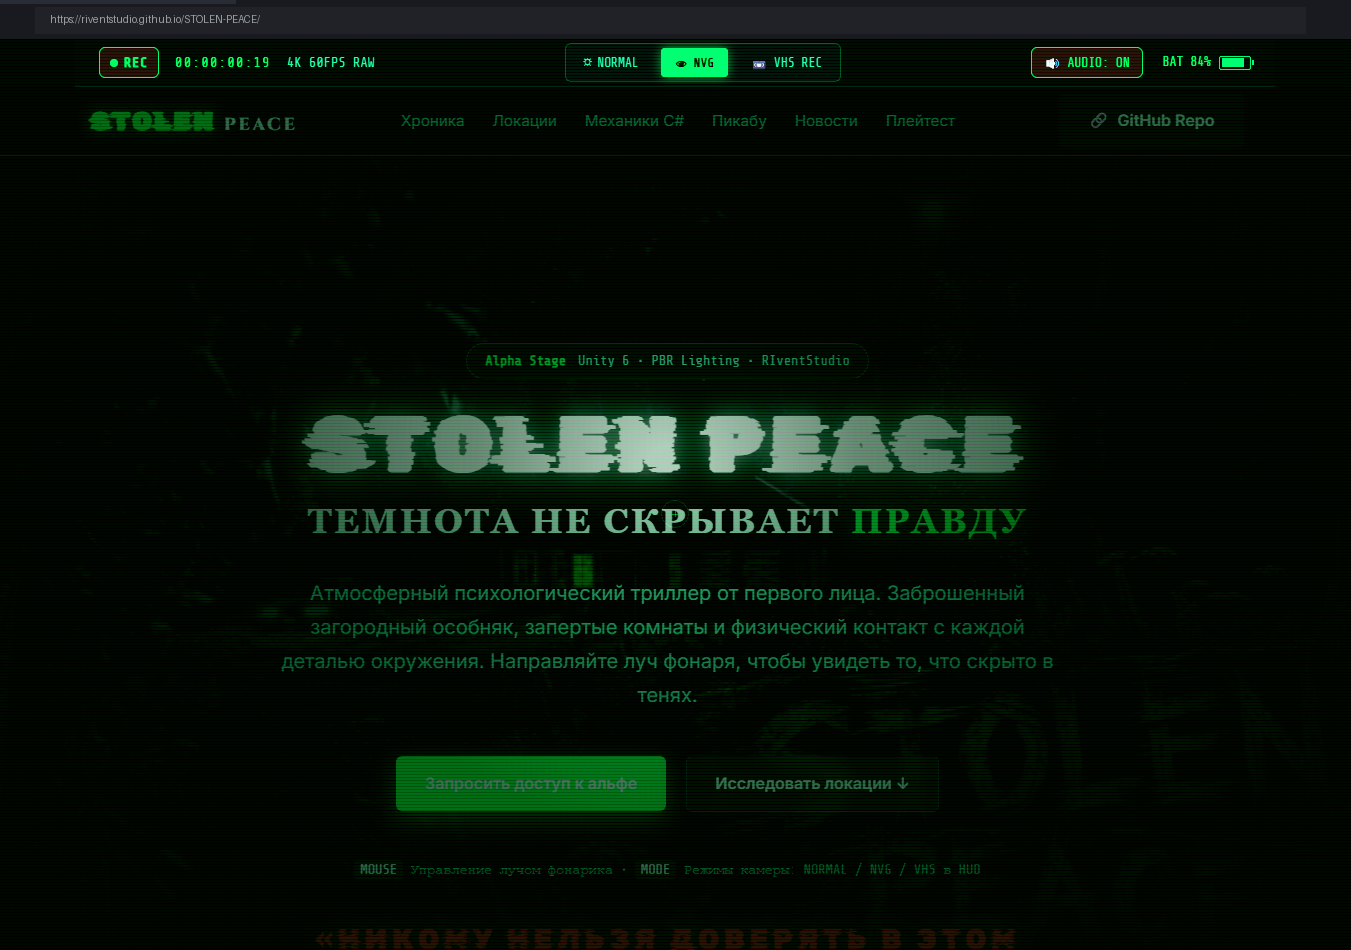
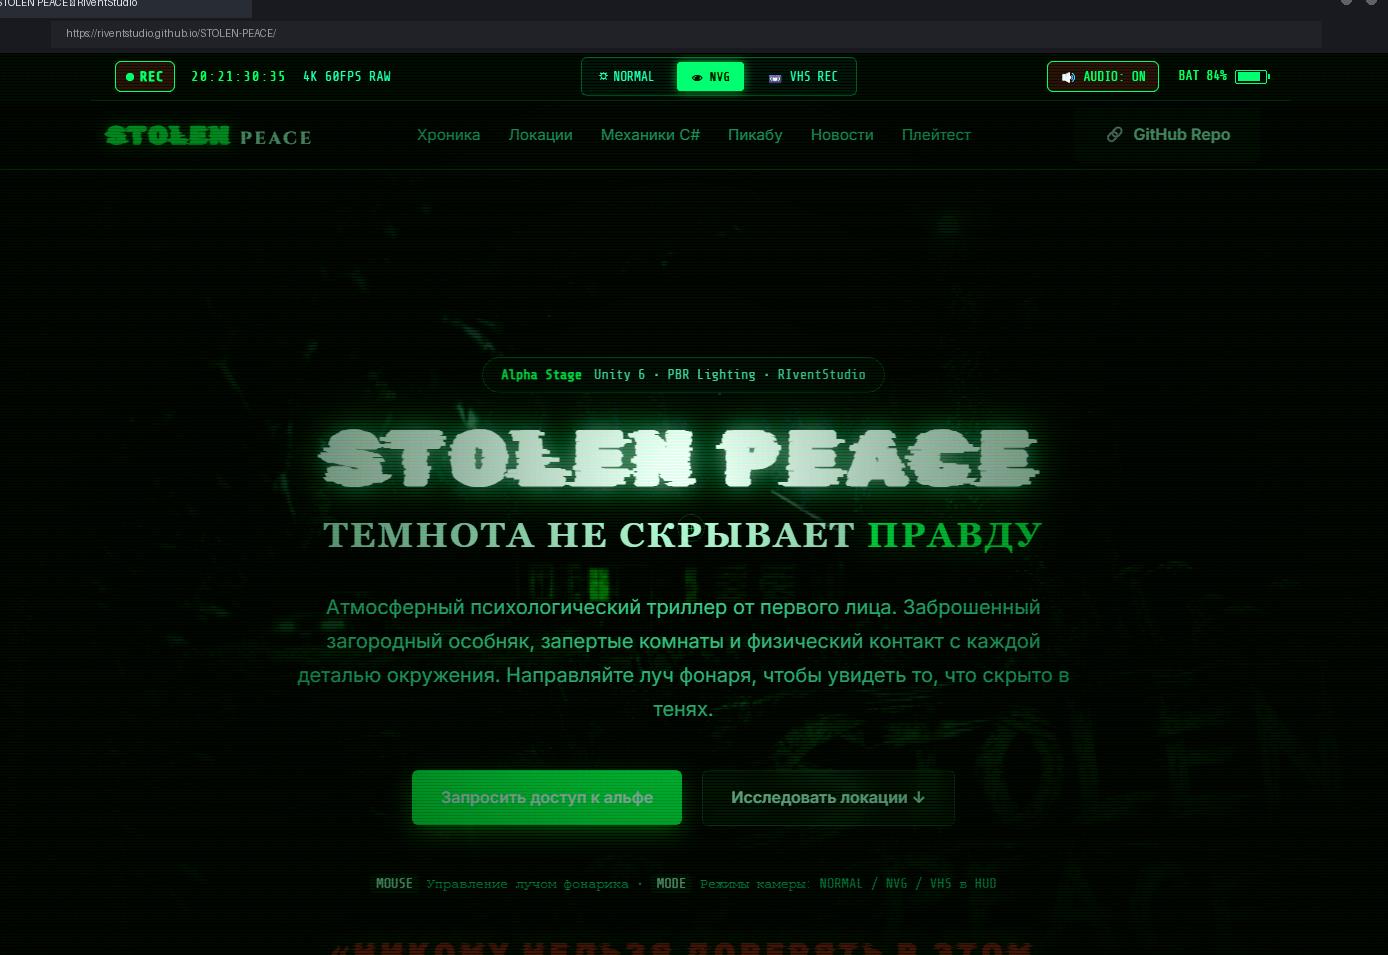
fix: убрать упоминание имени автора, оставить студийный бренд RIventStudio

diff --git a/docs/index.html b/docs/index.html
@@ -535,7 +535,7 @@
                         <div class="form-grid">
                             <div class="field-wrap">
                                 <label for="pt-name" class="field-label">Имя или никнейм</label>
-                                <input type="text" id="pt-name" name="name" class="field-input" placeholder="Например, Артём" required minlength="2">
+                                <input type="text" id="pt-name" name="name" class="field-input" placeholder="Ваш никнейм или имя" required minlength="2">
                                 <span class="field-status-msg">Введите от 2 символов</span>
                             </div>
 
@@ -575,7 +575,7 @@
                     <span class="logo-scratch">STOLEN</span> PEACE
                 </div>
                 <p class="footer-desc">
-                    Авторский инди-проект от <strong>RIventStudio</strong> (Неменущий Артём Витальевич). 
+                    Авторский инди-проект от <strong>RIventStudio</strong>. 
                     Сделано с использованием передовых Web APIs, CSS Scroll-driven animations и Web Audio API.
                 </p>
             </div>

diff --git a/docs/style.css b/docs/style.css
@@ -2,7 +2,7 @@
    STOLEN PEACE — Cutting-Edge Web Experience
    Modern Web Standards: Scroll-driven animations, Popovers, @starting-style,
    CSS :has(), :user-valid, Vision Shaders (NVG / VHS), Web Audio Engine.
-   Developer: RIventStudio (Неменущий Артём Витальевич)
+   Developer: RIventStudio
    ========================================================================== */
 
 /* 1. CSS CUSTOM PROPERTIES & THEME PALETTES */

diff --git a/docs/app.js b/docs/app.js
@@ -13,7 +13,7 @@
  * - 20s Auto-Cycle with 60s Manual Override Pause
  * - VHS Mode with Heavy 10-40% Tape Interference
  * 
- * Author: RIventStudio (Неменущий Артём Витальевич)
+ * Author: RIventStudio
  */
 
 (function () {
